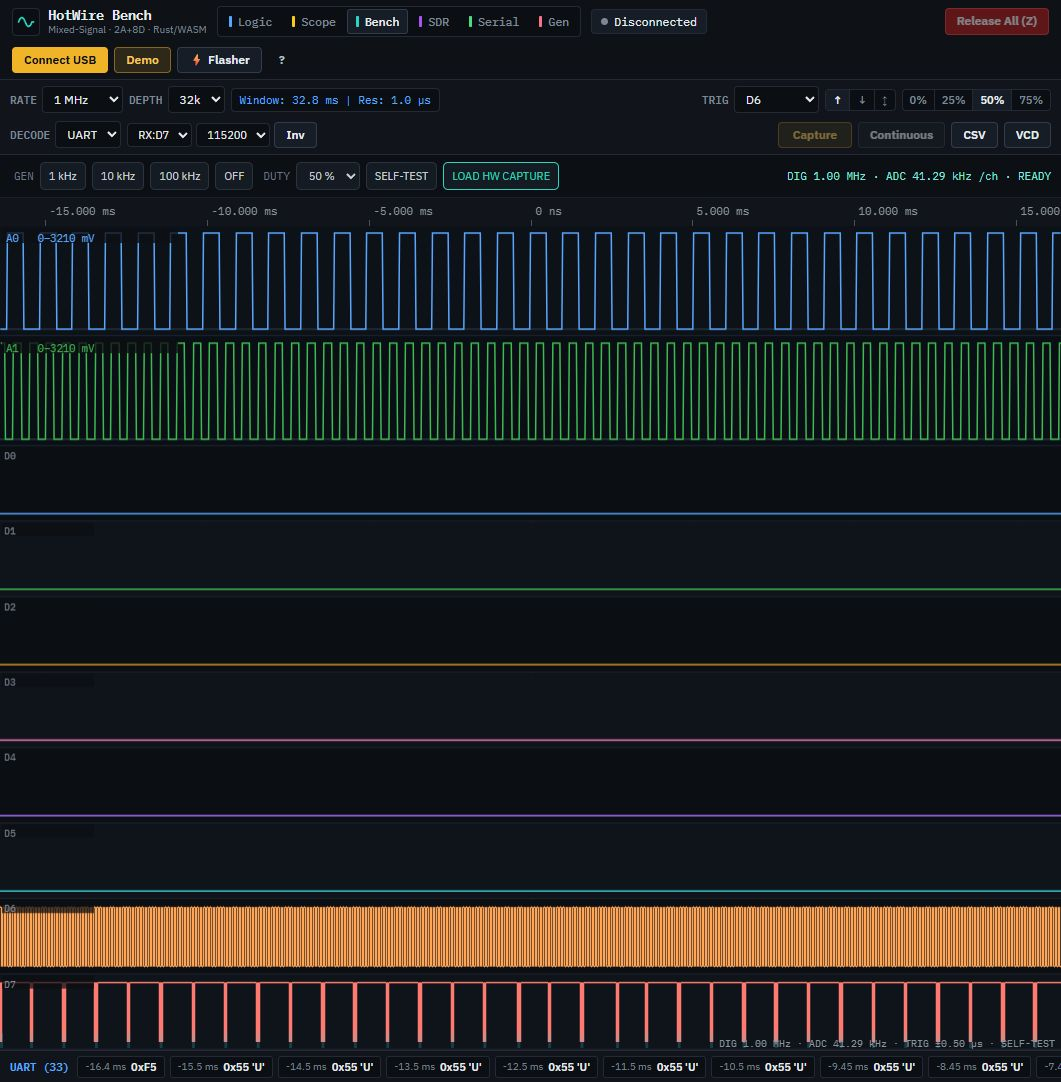
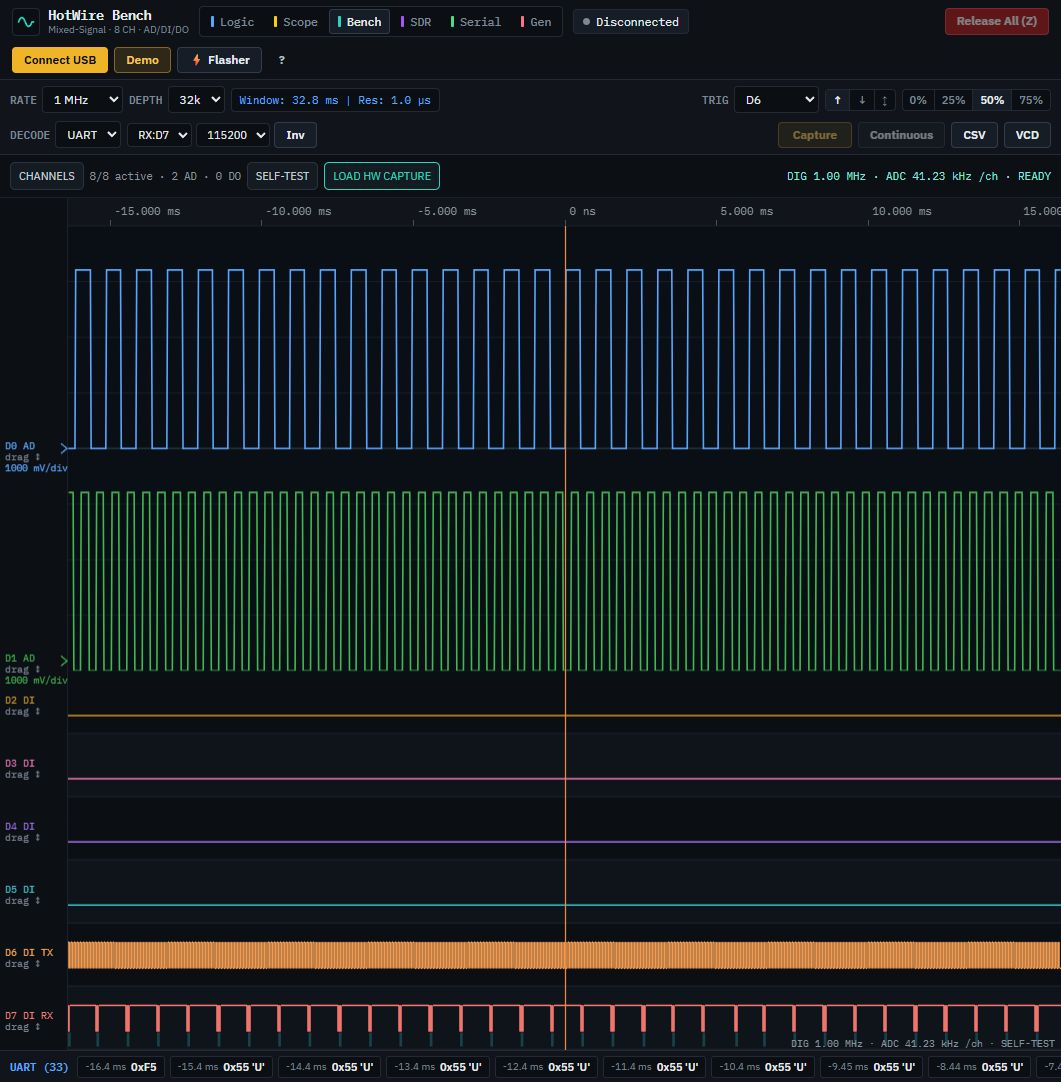
docs: update Bench V0.2 configurable-channel landing copy

Changed region(s): [[0.0, 0.1525, 1.0, 0.976], [0.1244, 0.0, 0.6532, 0.0305]]

diff --git a/src/data/tools.ts b/src/data/tools.ts
@@ -33,12 +33,12 @@ export const TOOLS: HotWireTool[] = [
     repoUrl: 'https://github.com/hotwire-lab/bench',
     image: '/images/bench.jpg',
     imageAlt: 'HotWire Bench mixed-signal view with analog channels, digital lanes, UART decode and generator controls',
-    firmwareMin: 'v0.1.0+',
+    firmwareMin: 'v0.2.0+',
     specs: [
       { label: 'Channels', value: '8 configurable: AD (D0–D3), DI/DO (D0–D7)' },
       { label: 'Rates', value: '1 MSPS digital · 83.3 kSPS total ADC' },
       { label: 'View', value: 'Shared timebase · UART/SPI/I²C · generator' },
-      { label: 'Firmware', value: 'v0.1.0+ (S3, mixed-signal)' },
+      { label: 'Firmware', value: 'v0.2.0+ (S3, mixed-signal)' },
     ],
   },
   {
@@ -147,5 +147,6 @@ export const TOOLS: HotWireTool[] = [
     ],
   },
 ];
+
 
 
